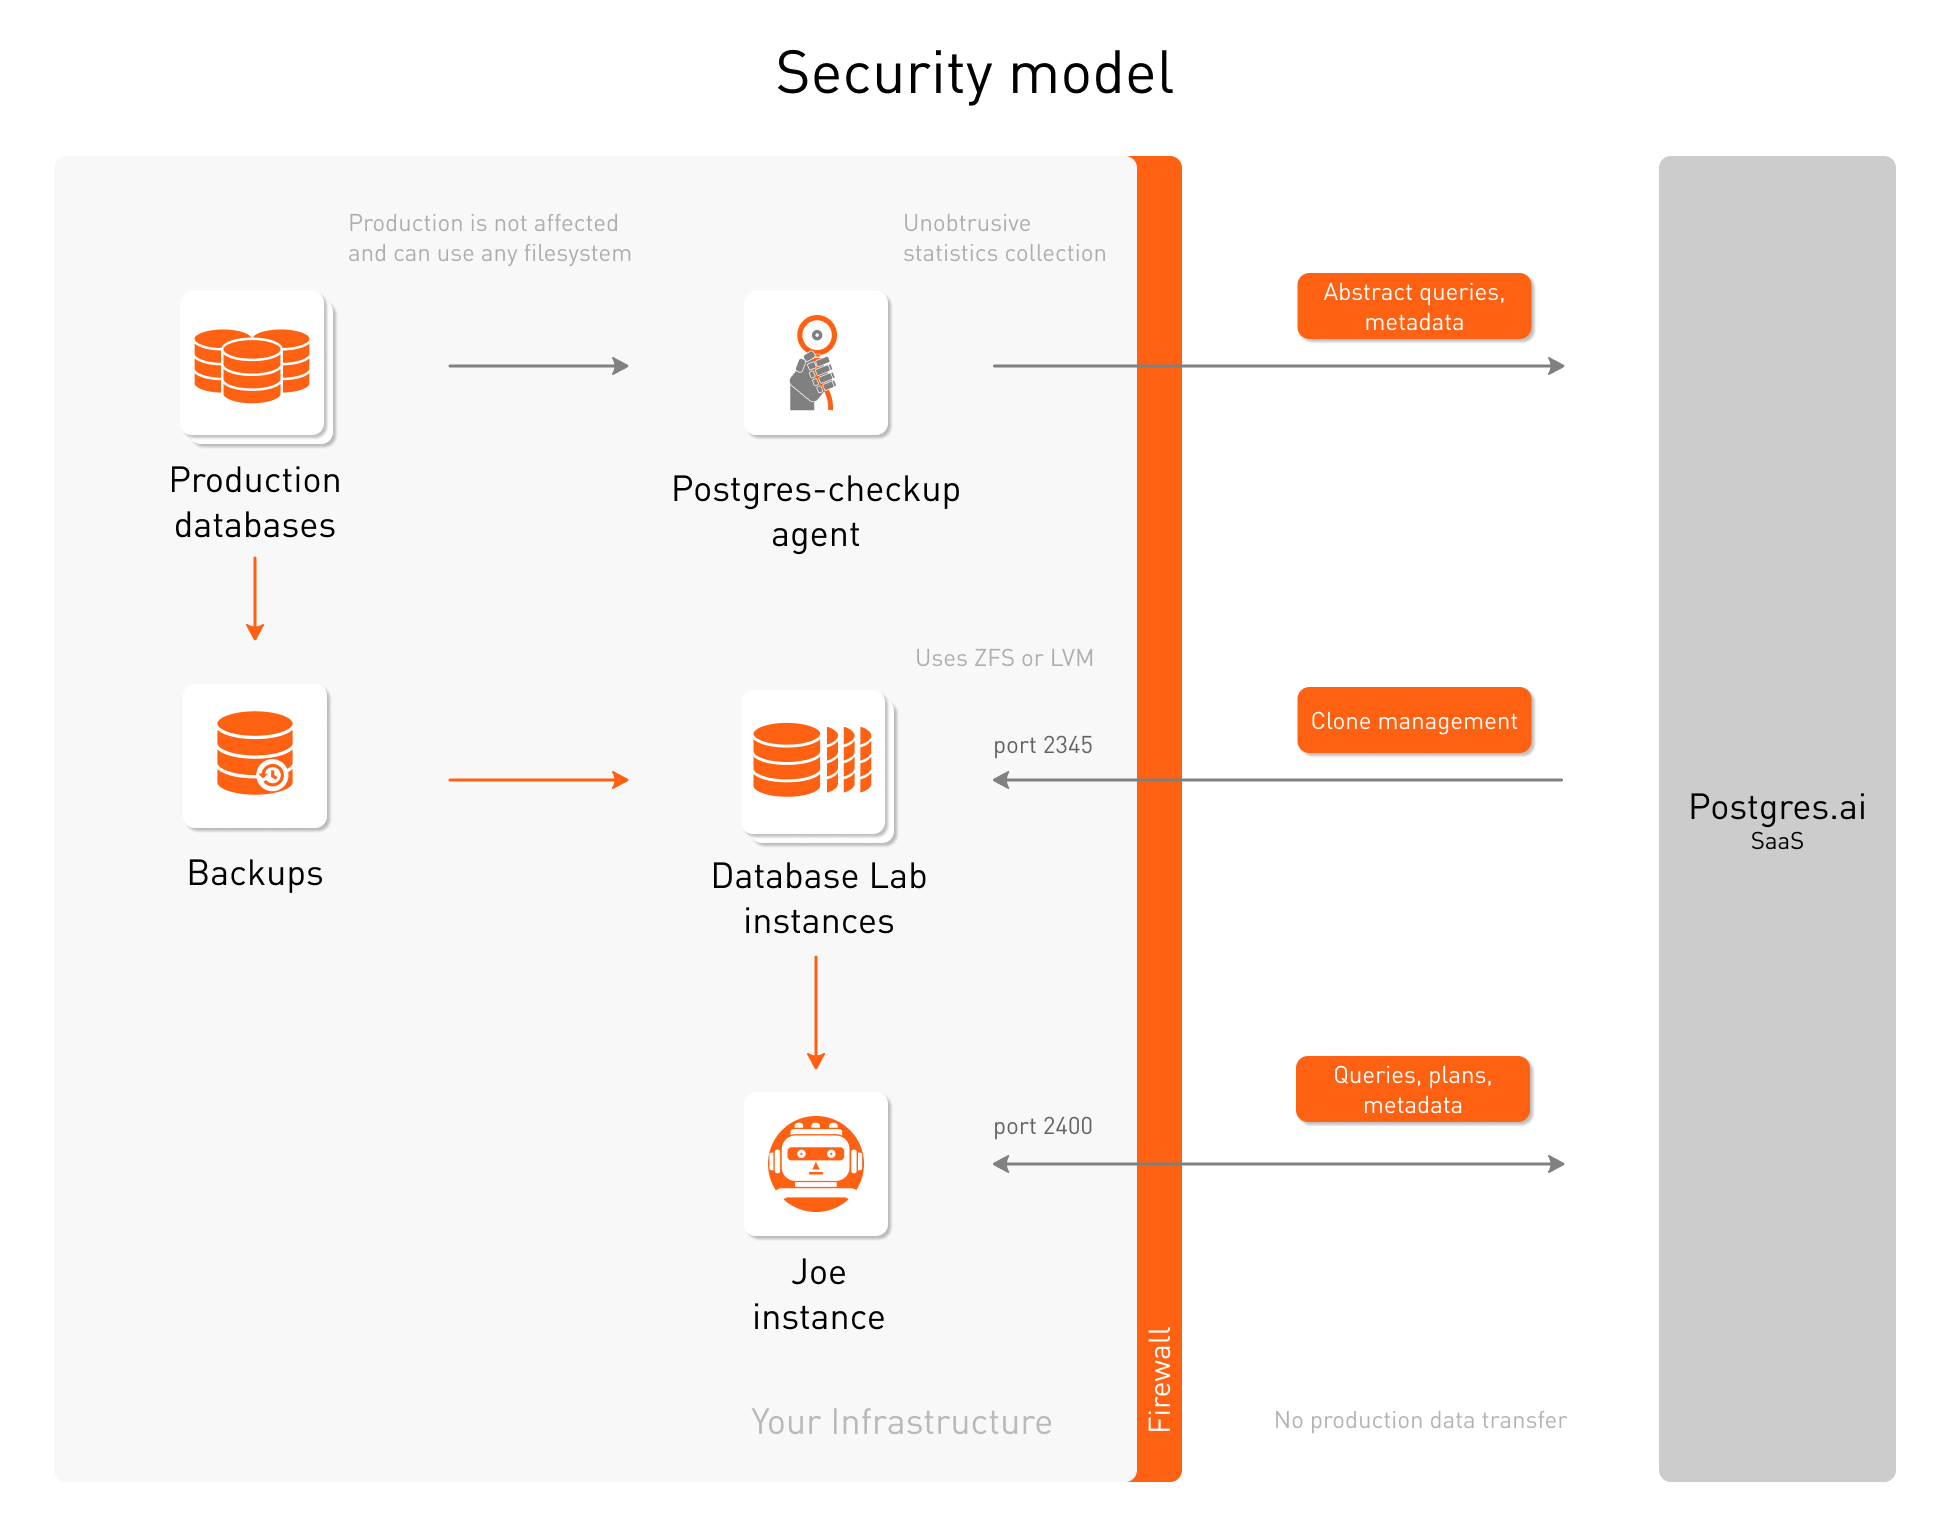
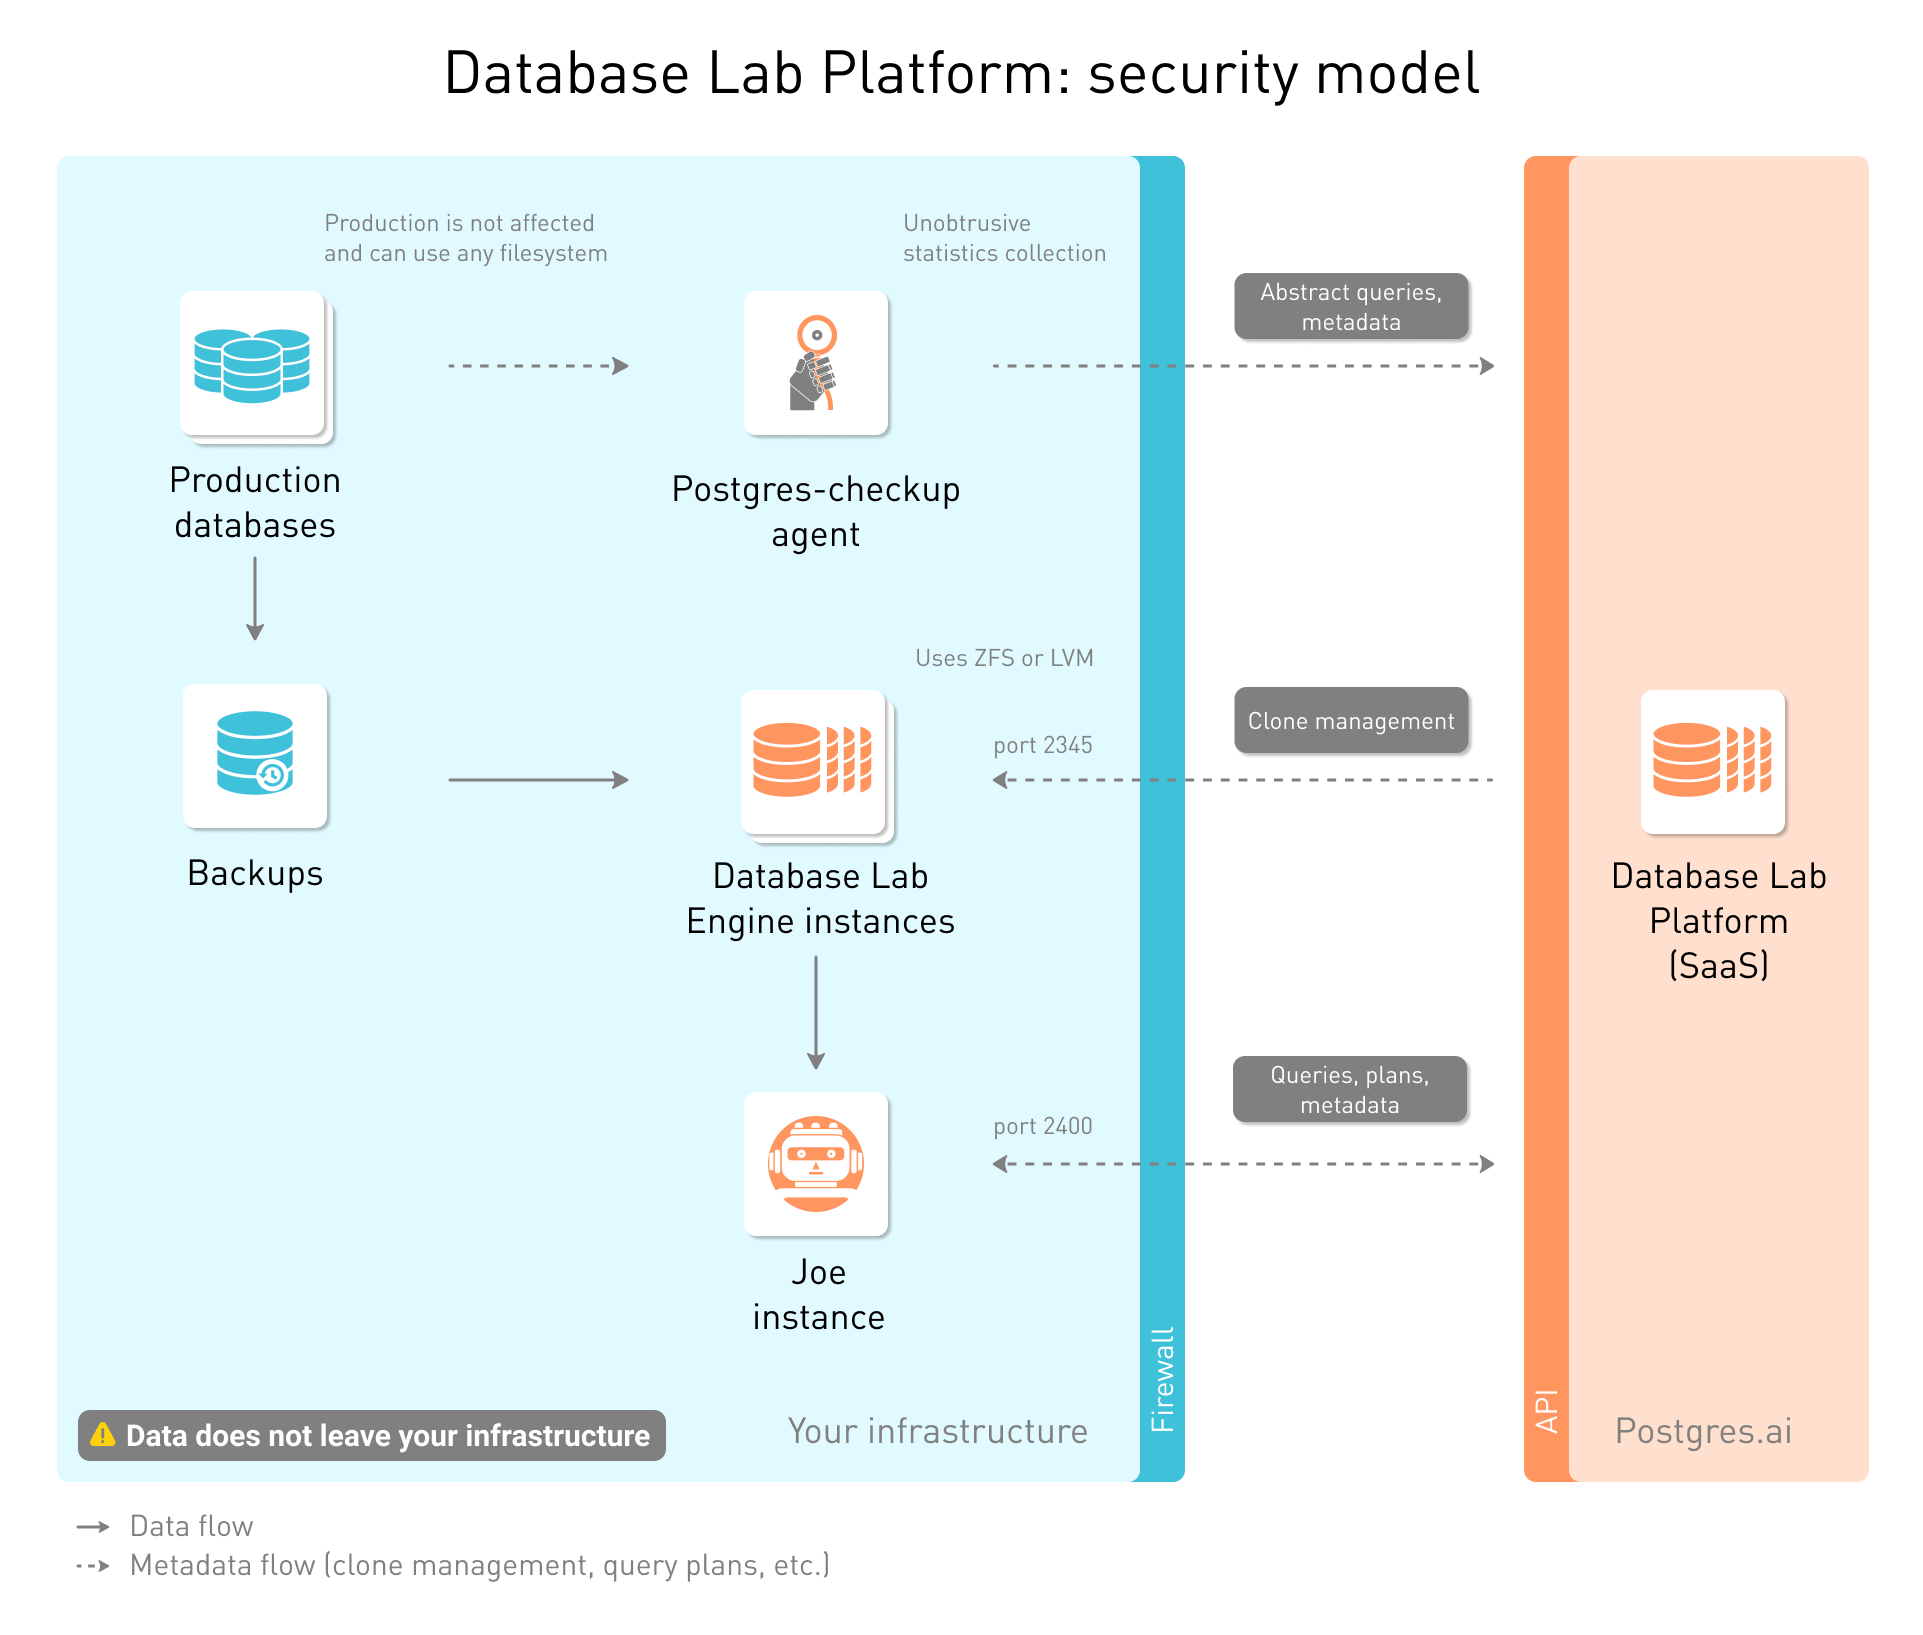
Extend and improve Security page in docs

diff --git a/docs/platform/security.md b/docs/platform/security.md
@@ -1,50 +1,66 @@
 ---
-title: Postgres.ai security aspects
-sidebar_label: Security aspects
+title: Database Lab Platform Security
+sidebar_label: Database Lab Platform Security
 ---
 
-Postgres.ai Platform and its components are developed with a strong focus on security. To ensure that your data is secure, please carefully read this document and 
+Database Lab Platform and its components are developed with a strong focus on security. To ensure that your data is secure, please carefully read this document.
 
-## If you found a security-related issue
+## Found a security issue or have questions?
+If you found a possible vulnerability or have an urgent security-related concern, please reach out to Postgres.ai Support as soon as possible, using one of the following options:
 
-If you found a possible vulnerability or have any urgent security-related concerns, please contact Postgres.ai Support as soon as possible, using one of the following options:
+1. Use Intercom widget available on Postgres.ai
+1. Write an email to <a href="mailto:security@postgres.ai">security@postgres.ai</a>
 
-1. use Intercom widget available on Postgres.ai,
-1. write an email to security@postgres.ai.
+## Security incidents and incident management
+### Security incident
+Security incident – any violation or reasonable risk (or threat) to violate of:
+- Database Lab Platform (Postgres.ai) integral security (including but not limited to: databases, backups, application code, infrastructure components, customer data)
+- Internal Postgres.ai Information Security Policies
+
+### How incidents are processed
+Once the information about an incident becomes known to the Engineer on Call, it is analyzed, the incident registration performed, severity level is assigned, and then it is determined if customer notification is needed.
+
+### Communication with customers
+Any severe incidents with risks to affect customer data trigger customer alert. The corresponding customers are alerted using an appropriate channel (email, phone, messaging system) within 24 hours. In this communication the following information is provided:
+- Date and time when the incident happened
+- The overview of ongoing security issues and potential issues in the future
+- What data is affected
+- The mitigation plan
+- Direct contacts for receiving further information on the particular incident resolution
 
 ## Architecture and data availability
-
-## What data can be received and stored in the Platform Database
-
-
-### Self-managed setups
-
+## Customer data management
+### Self-managed installations
 In the case of a Self-managed setup, all the components are installed and operate inside your infrastructure, cloud or on-premise. It is strongly recommended to treat Database Lab instances that work with production clones as production-like machines, therefore protecting them correspondingly, using firewalls, secure connections.
 
-### SaaS: what data can be transferred and stored in the Postgres.ai database?
+### Key security principles of communication between Postgres.ai SaaS and your infrastructure
+In [Postgres.ai SaaS](https://postgres.ai/console), all the components that can communicate directly to database clones are installed inside your infrastructure. The Platform works "outside". This means that both Postgres.ai components and Postgres.ai engineers cannot reach your infrastructure:
+- Postgres.ai *cannot* reach your databases
+- Postgres.ai *cannot* read or modify the data in your databases, including temporary clones
+- Postgres.ai *cannot* SSH to your machines
 
-In the case of a SaaS setup (Postgres.ai) of the Platform, the components that can connect to database clones are installed inside your infrastructure. The Platform works "outside" and *cannot* reach your databases and read or modify anything in your databases (including temporary clones):
-
+### SaaS (Postgres.ai): what data can be transferred to and stored in the Postgres.ai database
 ![Postgres.ai SaaS Security Model](/assets/saas-security-model.png)
 
-By default, ports 2400 and 2345 operate using HTTP, which is not secure. It is highly recommended that HTTP connections are not available to public, and all communication happens using HTTPS (consider using NGINX with SSL certificates as a proxy option to allow only encrypted communication between the Platform and Database Lab / Joe).
+By default, ports 2400 and 2345 operate using HTTP, which is not secure. It is highly recommended that HTTP connections are not open to the world, and all communications happen using HTTPS only (consider using NGINX with SSL certificates as a proxy option to allow only encrypted communication between the Platform and Database Lab / Joe).
 
-What if you do not want to open ports to the world at all? In this case, you need to use a more complicated setup, based on secure tunneling using WebSockets.
-It may be useful for communication Database Lab and Joe instances behind firewalls when making exclusions for specific ports is impossible or prohibited.
-The connection to the Platform is established by starting the tunnel client with a registration key. Please contact Postgres.ai support to obtain your registration key and detailed installation instructions. This option is available for paid customers (Enterprise Edition) only.
+What if you do not want to open ports to the world at all, even for HTTPS communication? In this case, you need to use a more complicated setup, based on secure tunneling using WebSockets. It also can be useful for setting up Database Lab and Joe instances behind firewalls when making exclusions for specific ports is impossible or prohibited. In this approach, the connection to the Platform is established by starting the tunnel client with a registration key. Note, that as of now (October 2020), the use of tunneling requires a special configuration of your organization in Postgres.ai SaaS.
+
+>Please contact Postgres.ai support to obtain your registration key and detailed installation instructions. This option is available for paid customers (Enterprise Edition) only.
 
 ![Postgres.ai SaaS Security Model](/assets/saas-security-tunnel-model.png)
 
+### Data transferred to and collected in Postgres.ai database
 Further, we discuss all Postgres.ai components that are to be installed in your infrastructure, and what kind of information can be transferred to Postgres.ai.
 
 #### Database Lab
-
 When integrated, the Database Lab component may receive only control signals such as "create clone", "destroy clone", "refresh clone", "list snapshots". The full list of capabilities you may find in [Database Lab CLI Reference](/docs/database-lab/cli-reference). By no means is data from your databases available to the Platform.
 
 To be able to connect to a clone, users need to work inside your infrastructure, where connections to Database Lab clones (by default, ports 6000..6100) are possible, using the username and the password defined at clone creation time. Postgres.ai never stores passwords for clones, and it is the users' responsibility to remember them.
 
-#### Joe Bot
+If CI observability is enabled (Database migration verification, "Observed sessions"), then partial PostgreSQL logs corresponding to activity observed on Database Lab clones is sent to Postgres.ai and stored there. Such logs may contain sensitive data. Customer can configure rules to automatically mask the sensitive data in these logs prior to sending to Postgres.ai.
 
+#### Joe Bot
 The key principle of Joe Bot:
 
 > Users may work only with metadata, but not with data. 
@@ -65,6 +81,5 @@ To mitigate these aspects, consider the following:
 1. finally, you may want to consider removing sensitive data at snapshot creation time in Database Lab instances. In this case, the sensitive data won't be available at all (however, this approach changes the physical layout, affecting EXPLAIN plans; in some cases, they may change and not be identical to production anymore).
 
 #### postgres-checkup
-
 postgres-checkup reports contain only metadata: database and database object sizes, row counts, Postgres configuration parameters, abstract SQL queries (queries without parameters).
 

diff --git a/docs/platform/index.md b/docs/platform/index.md
@@ -1,12 +1,12 @@
 ---
-title: Postgres.ai Platform overview
+title: Database Lab Platform overview
 sidebar_label: Overview
 slug: /platform
 ---
 
 ## Summary
 
-Postgres.ai Platform is a unified solution that helps developers, DBAs, SREs, and QA engineers boost their work with PostgreSQL databases. They all can get their work done much faster thanks to the thin cloning of databases and the high level of automation of various tasks that the Platform offers.
+Database Lab Platform is a unified solution that helps developers, DBAs, SREs, and QA engineers boost their work with PostgreSQL databases. They all can get their work done much faster thanks to the thin cloning of databases and the high level of automation of various tasks that the Platform offers.
 
 
 ## Open Source Components
@@ -39,7 +39,7 @@ The open-source components described above may be installed and operate without 
 
 ## Installation Options
 
-Postgres.ai Platform is available in the form of SaaS ([https://postgres.ai](https://postgres.ai)) and Self-managed setup.
+Database Lab Platform is available in the form of SaaS ([https://postgres.ai](https://postgres.ai)) and Self-managed setup.
 
 To start using SaaS, you need to enter to the system using one of the following accounts:
 
@@ -48,26 +48,8 @@ To start using SaaS, you need to enter to the system using one of the following 
 - GitLab,
 - GitHub.
 
-As of May 2020, the SaaS version is operating in a "Closed Beta" mode. The Postgres.ai Team will reach you to schedule a live demo, during which your account will be activated, and you will learn how to use available GUI, CLI, and API.
+As of October 2020, the SaaS version is operating in a "Closed Beta" mode. The Postgres.ai Team will reach you to schedule a live demo, during which your account will be activated, and you will learn how to use available GUI, CLI, and API.
 
 Self-managed setup requires Kubernetes. It is available upon request. Please reach out to Postgres.ai Support to discuss this option.
 
-Both SaaS and Self-managed options include two offerings, as of May 2020:
-
-1. CE (Community Edition):
-    - free of charge,
-    - unlimited number of organizations,
-    - unlimited number of members,
-    - 1 Database Lab instance per organization,
-    - 1 Joe Bot instance per organization,
-    - Joe Bot History shows with retention 14 days (individual pages are infinitely available via direct URLs).
-1. EE (Enterprise Edition) "Gold":
-    - this is a paid version. Contact Support to discuss the options.
-    <!--:   - $95 / user / month on Postgres.ai, each organization has independent billing, and license applies to an organization as a whole (example: if you have two organizations, one consisting of 15 members, and another of 10 members, and you decide to use all EE features in the first one, you need to pay 15 x $95 = $1425 each month, in this case, you will have the first organization working in "EE" mode, while the second one remains in "CE" mode),-->
-    - EE offering for Self-managed setup is available upon request. Please contact Postgres.ai Support.
-    - all features included to CE,
-    - unlimited number of Database Lab instances,
-    - unlimited number of Joe Bot instances, with unlimited channel mapping,
-    - unlimited Joe Bot History,
-    - "auto-join" feature is available: if configured, members with verified email addresses belonging to your company (`username@your-company-name.com`) join your organization automatically.
-1. EE "Platinum": to be defined (stay tuned!).
+Learn more about the options and available pricing models on the [Pricing](/docs/pricing) page.
